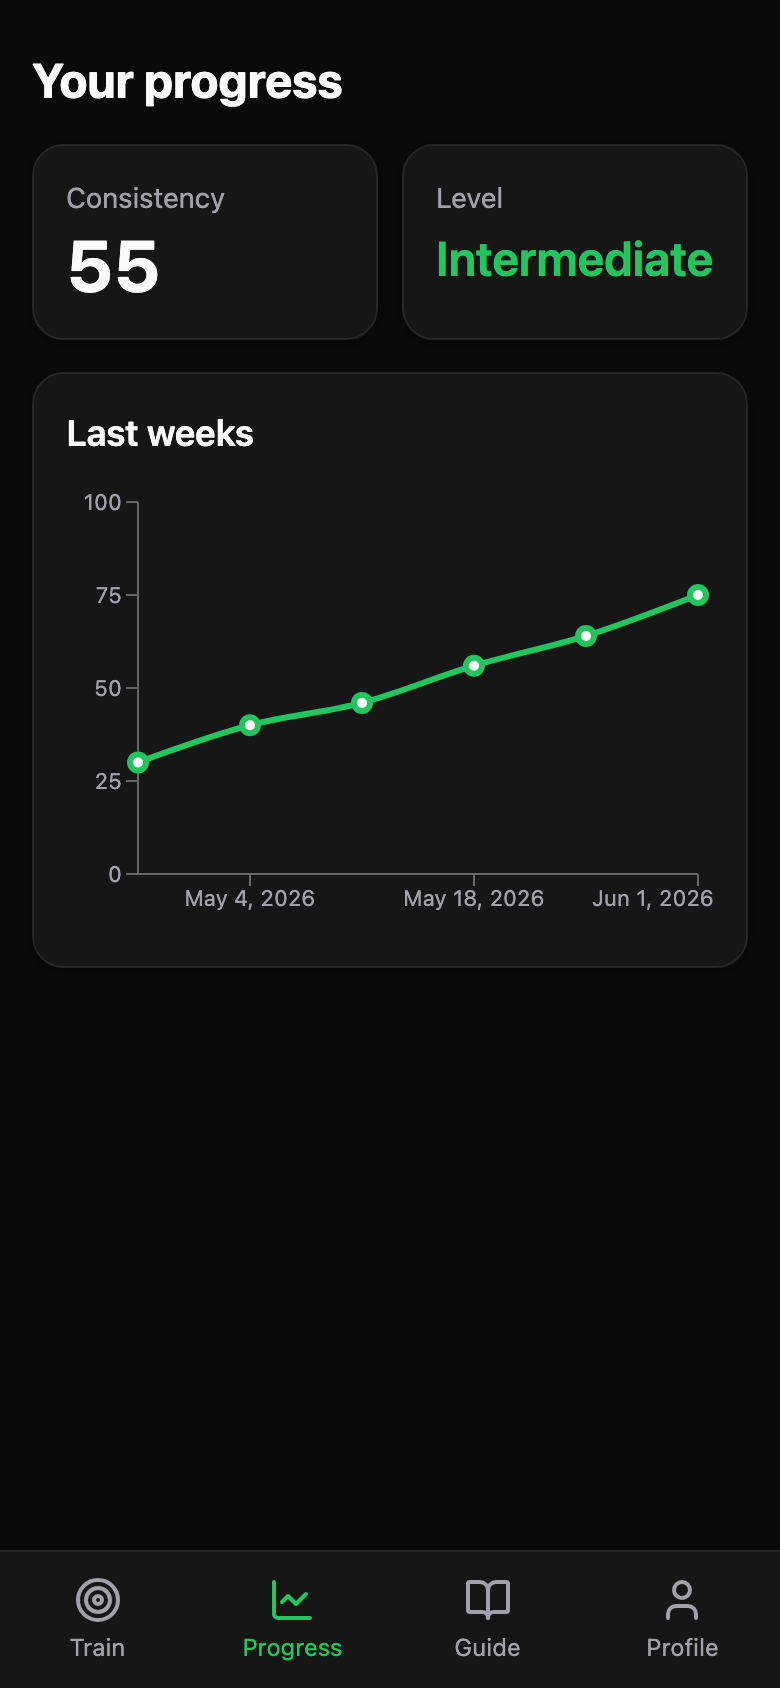
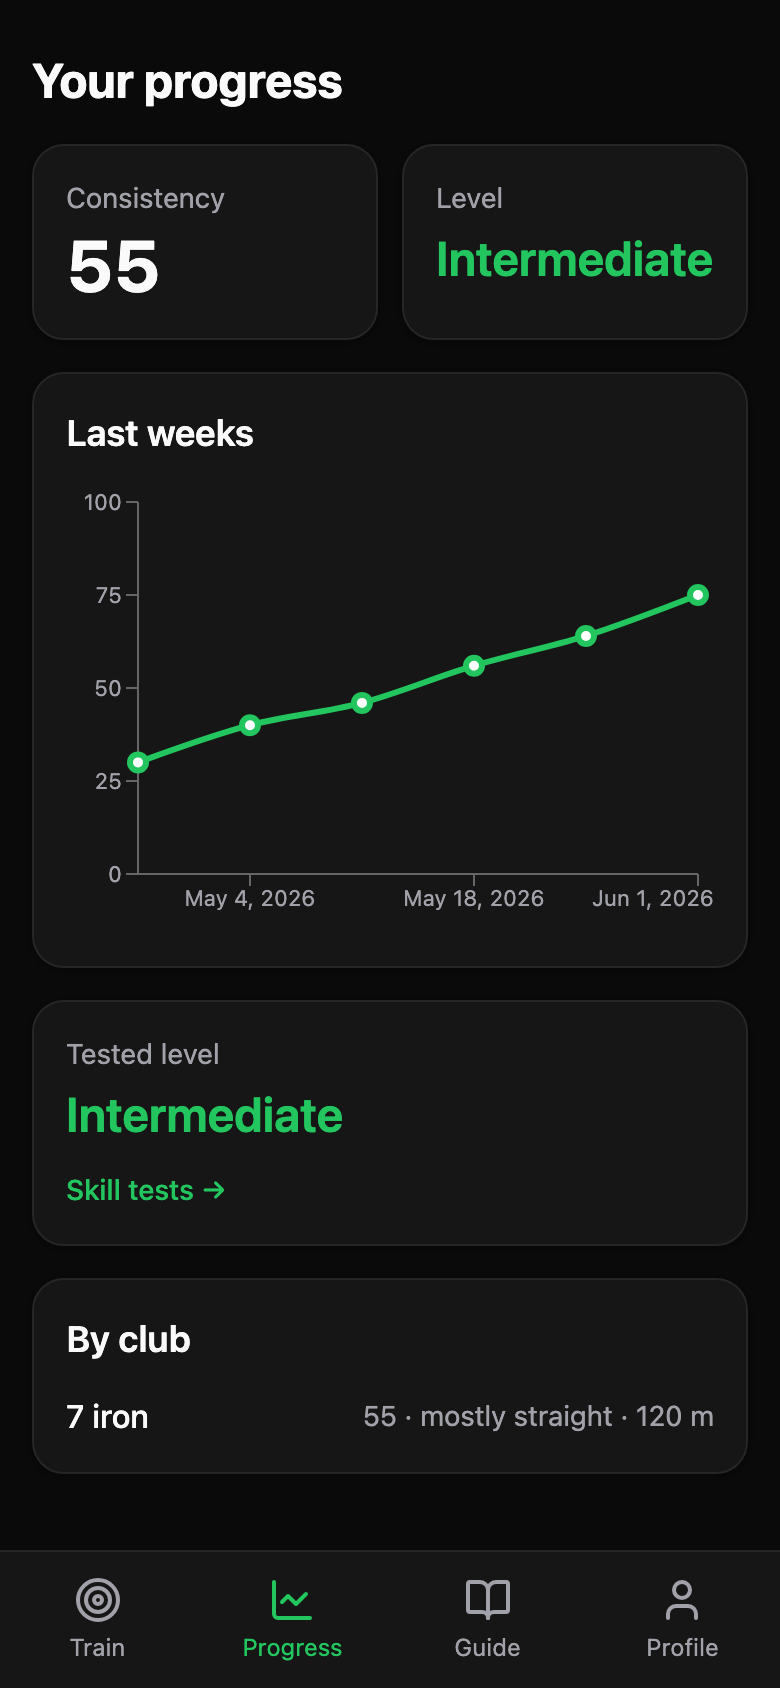
docs: refresh screenshots and add the skill tests screen

diff --git a/README.md b/README.md
@@ -15,9 +15,10 @@ sync endpoint. The phone app is local-first, so it works on the range with no si
 syncs when it gets back online.
 
 <p align="center">
-  <img src="docs/screenshots/train.png" width="240" alt="Logging a block during a range session" />
-  <img src="docs/screenshots/progress.png" width="240" alt="Consistency trend over recent weeks" />
-  <img src="docs/screenshots/guide.png" width="240" alt="Reference carry distances per club" />
+  <img src="docs/screenshots/train.png" width="220" alt="Logging a block during a range session" />
+  <img src="docs/screenshots/progress.png" width="220" alt="Consistency trend, tested level and per-club breakdown" />
+  <img src="docs/screenshots/skill-tests.png" width="220" alt="Repeatable skill tests" />
+  <img src="docs/screenshots/guide.png" width="220" alt="Your distances and the reference table" />
 </p>
 
 ## Stack